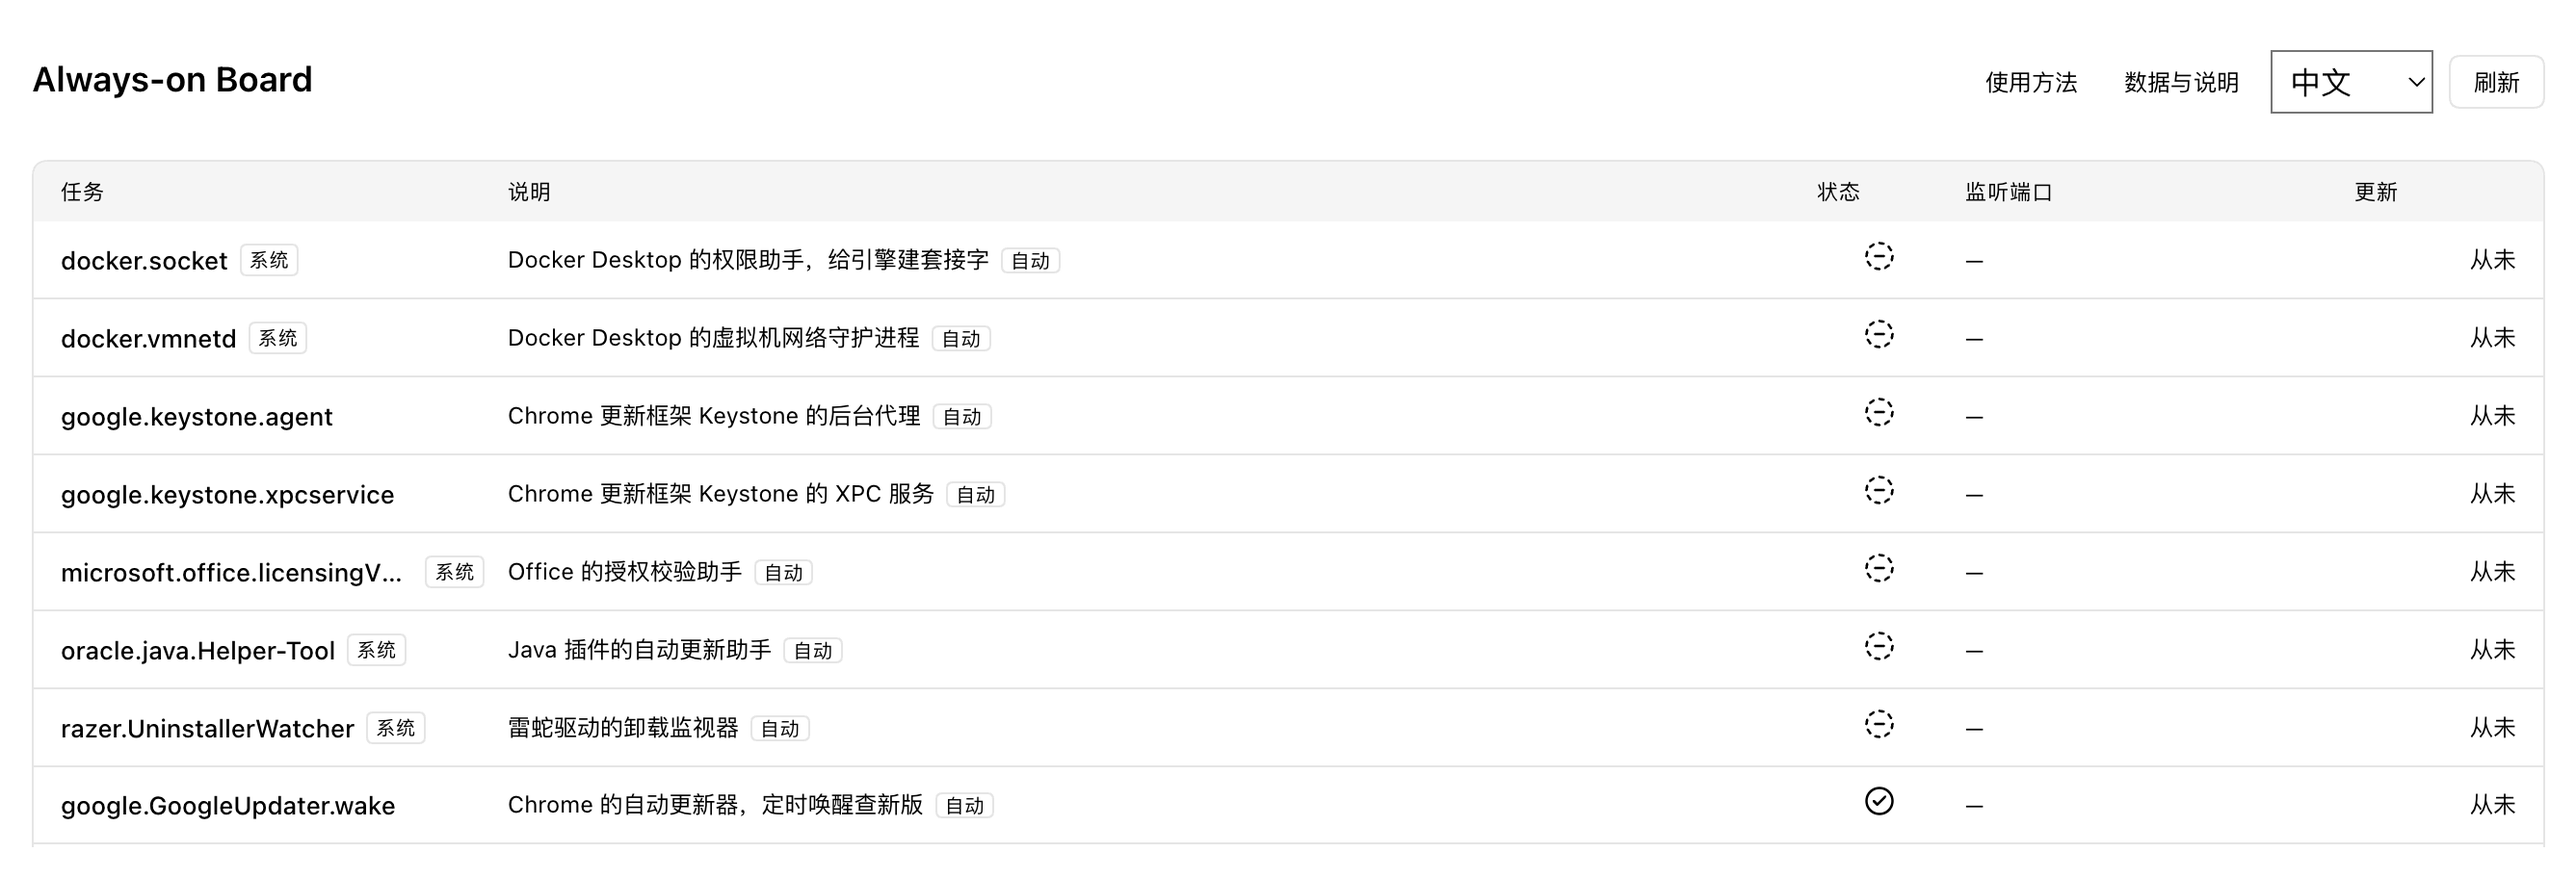
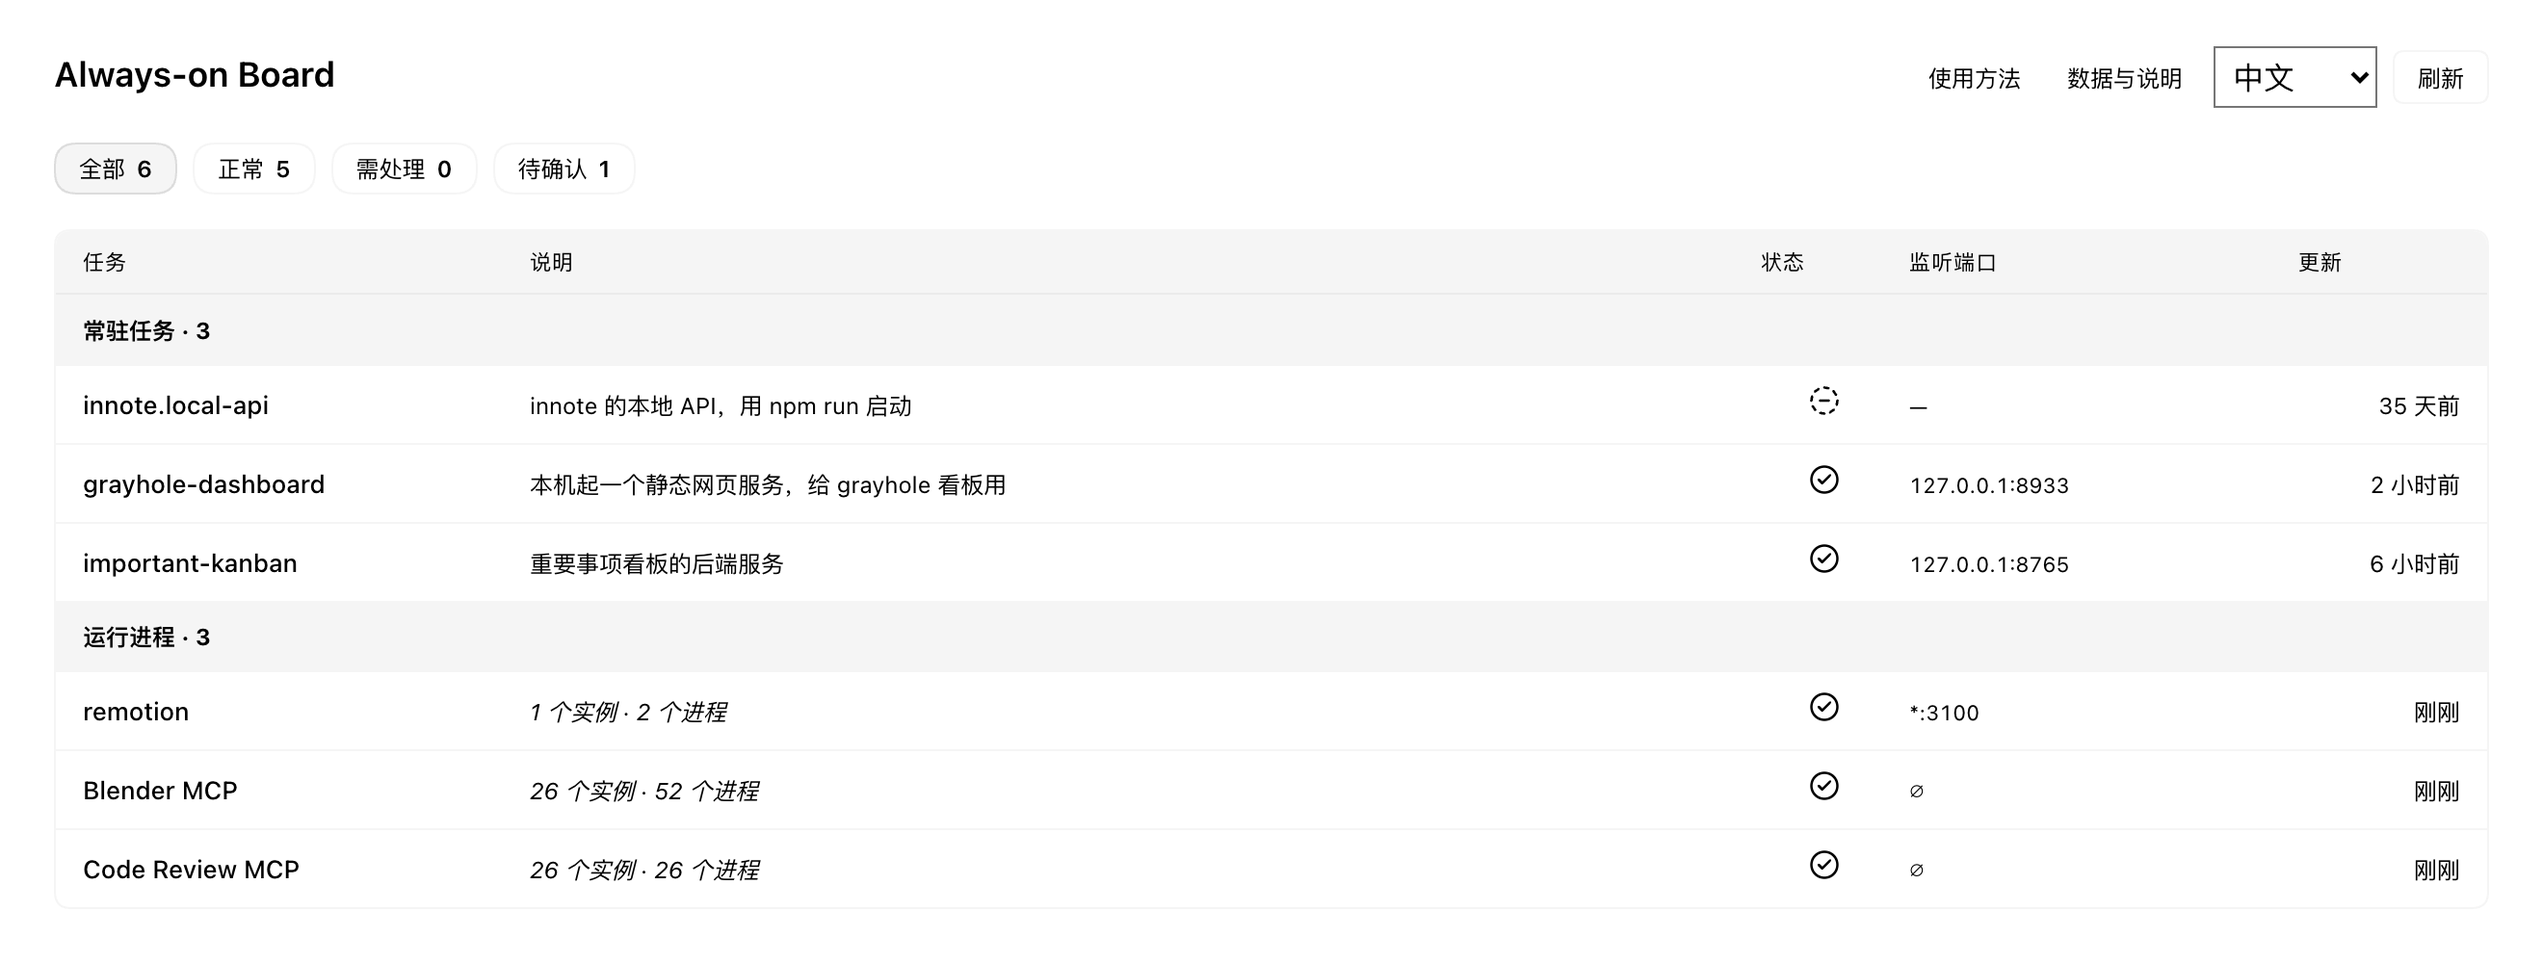
docs: show real personal projects and developer process groups

diff --git a/docs/screenshots/README.md b/docs/screenshots/README.md
@@ -45,12 +45,19 @@ Each final PNG was opened and visually checked at full size:
 
 No private source screenshot, hostname, avatar, real business label, email, credential, personal absolute path or conversation history was captured into these assets. The generic DSH logo and default workspace are host UI. Final assets carry “隔离演示 / 示例数据”. Screenshots and generation inputs are reviewed together; do not replace fixtures with a real state endpoint response.
 
-## Real screenshot excerpt / 真实截图节选
+## Real data excerpt / 真实数据节选
 
-Added 2026-10-21: `05-real-public-tasks.png` (2674 × 912) is derived from a user-provided real screenshot. It is separate from the four synthetic-data tour images above.
+Updated 2026-10-21: `05-real-public-tasks.png` (2640 × 1000) replaces the vendor-only crop. It shows three personal-project tasks (innote API, Gray Hole dashboard and ImportantKanban) and three running process groups (Remotion, Blender MCP and Code Review MCP).
 
-At the user's request, sensitive rows were removed completely and the remaining row strips joined in their original order. The original title, controls and table header are retained. The sidebar, personal mascot, full-list counts and section total are omitted. No replacement task names, descriptions, status icons or other task data were generated or painted over.
+This is **real collection data filtered before rendering**, not a pixel crop of the original screenshot or a synthetic fixture. `collect-public-excerpt.mjs` runs the current collector with its notes-writing call replaced by a read-only notes read. It selects exactly six allowlisted entries and exports only display fields to a temporary file outside Git. Purpose annotations for the three persistent tasks are transcribed from the user's original screenshot; they are annotations, not newly verified service behavior. Actual states, ports, update times and instance/process counts come from collection. Header counts refer only to the six selected rows.
 
-The 8 retained rows are Docker socket, Docker vmnetd, Chrome Keystone agent, Chrome Keystone XPC service, Office licensing, Java updater, Razer uninstaller watcher and Chrome updater. Visual review confirmed that no private project name, VPN/proxy entry, chat history, personal path, hostname, email, credential or local service endpoint remains. The image is an edited list excerpt, not the full original board or evidence of current service health.
+`capture-public-excerpt.cjs` loads that display projection into the isolated no-op host described above, blocks external requests and captures only the board panel. No personal path, hostname, command arguments, identity hash, VPN/proxy entry, credentials or conversation history is published. The raw snapshot and original screenshot remain outside Git. No model messages or task actions are performed.
 
-`crop-public-rows.cjs` records the deterministic crop coordinates and validates the original dimensions. It requires Sharp from an external tool environment and takes the private input path as an argument. The raw screenshot and the earlier masked preview remain outside Git; only this reviewed derivative is published. The captions in both READMEs disclose the cropping and row removal. No task or process was modified.
+Reproduce after starting a new isolated host with `prepare-host.mjs`:
+
+```sh
+node docs/screenshots/collect-public-excerpt.mjs /tmp/aob-public-excerpt.json
+AOB_HOST_LOG=/tmp/aob-docs-example.log node docs/screenshots/capture-public-excerpt.cjs /tmp/aob-public-excerpt.json
+```
+
+Node 22 and external Playwright/Chrome are required. Collection fails if an allowlisted entry is absent rather than inventing it. The final image was visually reviewed row by row: both flat sections, all six names/descriptions, status icons, counts and ports are readable. Browser checks verify six rows and reject unexpected private-path/network-tool text. The original four tour images remain synthetic demonstrations and are unchanged.

diff --git a/README.en.md b/README.en.md
@@ -10,9 +10,9 @@ The goal is to reduce unnecessary resource use and keep useful tasks stable. Ene
 
 ## Real screenshot excerpt
 
-Captured from the real local board, with only public task entries retained. The sidebar, personal information and entire sensitive rows have been removed. This is a list excerpt; task text and status icons are unchanged.
+Three personal-project tasks and three running process groups were selected from real local collection data and rendered with the current UI in an isolated DSH host. Only selected entries are shown; private paths, host details and the conversation sidebar are excluded. Purpose annotations are retained from the original screenshot.
 
-![Real task list excerpt showing Docker, Chrome, Office, Java and Razer; sensitive entries removed](docs/images/05-real-public-tasks.png)
+![Real data excerpt showing personal-project API and dashboard tasks, plus Remotion, Blender MCP and Code Review MCP process groups](docs/images/05-real-public-tasks.png)
 
 ## A four-step tour
 
